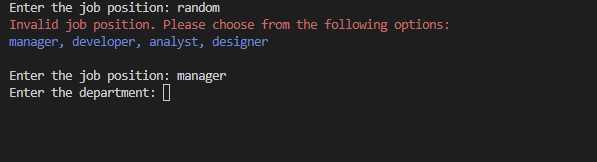
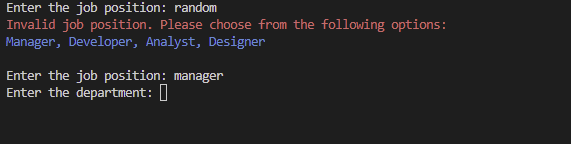
Replace screenshots

Changed region(s): [[0.0, 0.0, 0.7741, 0.3333], [0.0, 0.4167, 0.4168, 0.7222]]

diff --git a/validation_functions.py b/validation_functions.py
@@ -197,14 +197,14 @@ def is_valid_address(address):
 
 
 valid_job_positions = [
-    "manager", "developer",
-    "analyst", "designer"]  # Example list of valid job positions
+    "Manager", "Developer",
+    "Analyst", "Designer"]  # Example list of valid job positions
 
 
 def get_job_input(message):
     while True:
         # Convert user input to lowercase for case-insensitive comparison
-        job_position = input(message).lower()
+        job_position = input(message).capitalize()
         if job_position in valid_job_positions:
             return job_position
         else:
@@ -217,15 +217,16 @@ def get_job_input(message):
 
 
 valid_departments = [
-    "sales", "marketing",
-    "finance", "hr"]  # Example list of valid departments
+    "Sales", "Marketing",
+    "Finance", "HR", "IT"]  # Example list of valid departments
 
 
 def get_department_input(message):
     while True:
         # Convert user input to lowercase for case-insensitive comparison
-        user_input = input(message).lower()
-        if user_input in valid_departments:
+        user_input = input(message).capitalize()
+        if user_input in valid_departments or \
+                user_input.upper() in valid_departments:
             return user_input
         else:
             print(red_color +
